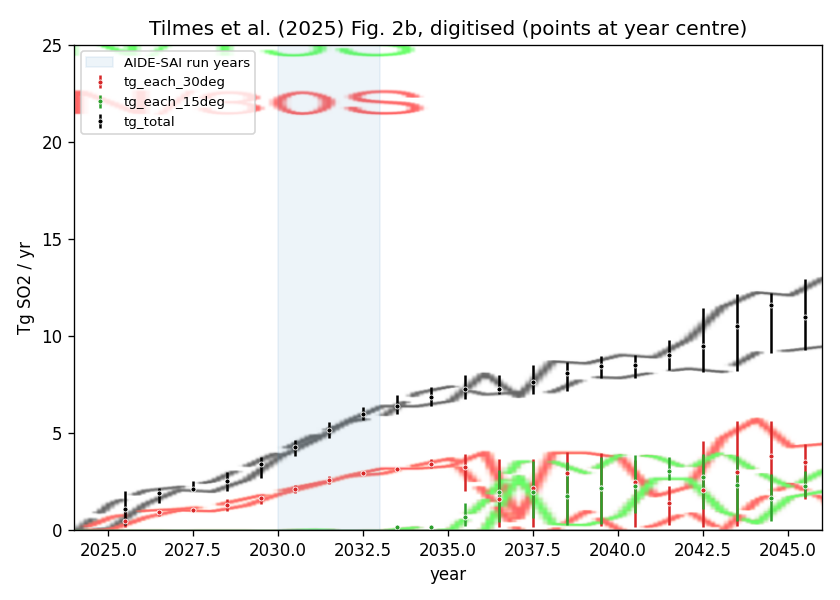
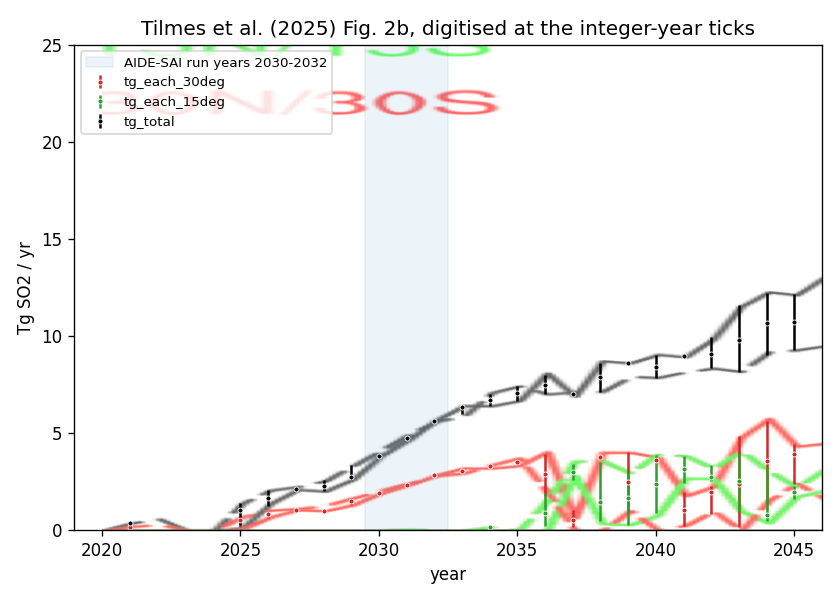
AIDE-SAI: read Fig. 2b at the integer-year vertex, not the mean over [Y, Y+1)
The curves are polylines with one vertex per year at the tick; the year mean
was about the mean of years Y and Y+1 (0.3-0.5 Tg/yr high in 2030-2032).
2030-2034 totals now 3.81, 4.72, 5.60, 6.34, 6.70. lo/hi are the member
spread at the tick. Years from 2020 (injection starts ~2020.5). Dead branch
removed.

diff --git a/AIDE-SAI/scripts/digitize_tilmes2025_fig2b.py b/AIDE-SAI/scripts/digitize_tilmes2025_fig2b.py
@@ -5,14 +5,19 @@ Output: AIDE-SAI/validation_results/injection_rates/tilmes2025_fig2b.{csv,png}.
 
 Curves (caption: "15N and 15S (green), 30N and 30S (red), total (black); different lines
 indicate two ensemble members"). Red and green are the rate AT EACH of the two sites of a
-pair, not the pair sum: while green is zero (2030-2032) red is half of black (2.13 vs 4.27/2).
+pair, not the pair sum: while green is zero (2030-2032) red is half of black.
 
-Method: pixel colour masks per curve;
-in each pixel column the curve pixels split into clusters (one per ensemble member);
-the column value is the mean of the cluster centres. A year's value is the mean over the
-pixel columns inside that calendar year; lo/hi are the lowest and highest cluster centre
-in that year (member envelope plus within-year change). Axis calibration was read off
-the tick marks by hand (constants below); read error about 0.3 Tg/yr.
+The curves are polylines with one vertex per year at the integer-year tick (kinks and
+member divergences fall on integer years), so year Y's rate is read AT x = Y, not averaged
+over [Y, Y+1) (that average is about the mean of the Y and Y+1 rates; 2026-11-25 review).
+
+Method: pixel colour masks per curve; in each pixel column the curve pixels split into
+clusters (one per resolved ensemble member; members that overlap give one cluster); the
+column value is the mean of the cluster centres. Year Y's value is that column value
+interpolated linearly to x(Y) between the two bracketing columns; lo/hi are the lowest and
+highest cluster centre in those two columns (member spread where members are resolved).
+Axis calibration was read off the tick marks by hand (constants below); read error about
+0.3 Tg/yr.
 """
 from pathlib import Path
 
@@ -31,7 +36,7 @@ Y_ZERO, Y_PER_TG = 604.6, (514.5 - 154) / 20
 ROWS = (66, 603)                    # plot area, top to the zero line
 COLS = (1222, 1830)
 LEGEND = (slice(66, 240), slice(1180, 1360))
-YEARS = range(2025, 2046)
+YEARS = range(2020, 2046)
 
 
 def x2yr(x):
@@ -51,18 +56,20 @@ def main():
     series = {}
     for k, m in masks.items():
         m[LEGEND] = False
-        per_year = {}
+        col = {}
         for x in range(*COLS):
             ys = np.where(m[ROWS[0]:ROWS[1], x])[0] + ROWS[0]
-            if k != "tg_total":
-                ys = ys[ys < ROWS[1]]
-            if len(ys) == 0:
-                continue
-            clusters = np.split(ys, np.where(np.diff(ys) > 3)[0] + 1)
-            vals = [y2tg(c.mean()) for c in clusters]
-            per_year.setdefault(int(np.floor(x2yr(x))), []).append((np.mean(vals), min(vals), max(vals)))
-        series[k] = {y: (np.mean([v[0] for v in L]), min(v[1] for v in L), max(v[2] for v in L))
-                     for y, L in per_year.items()}
+            if len(ys):
+                clusters = np.split(ys, np.where(np.diff(ys) > 3)[0] + 1)
+                col[x] = [y2tg(c.mean()) for c in clusters]
+        series[k] = {}
+        for y in YEARS:
+            xf = X0 + (y - 2020) * X_PER_YR
+            x0, x1 = int(np.floor(xf)), int(np.floor(xf)) + 1
+            if x0 in col and x1 in col:
+                w = xf - x0
+                vals = col[x0] + col[x1]
+                series[k][y] = ((1 - w) * np.mean(col[x0]) + w * np.mean(col[x1]), min(vals), max(vals))
 
     OUT.mkdir(parents=True, exist_ok=True)
     keys = list(masks)
@@ -71,9 +78,10 @@ def main():
                 "# digitised from Tilmes et al. (2025), ACP 25, 6001-6023, Fig. 2b (CC BY 4.0).\n"
                 "# Generated by AIDE-SAI/scripts/digitize_tilmes2025_fig2b.py; do not edit.\n"
                 "# tg_each_30deg / tg_each_15deg: rate at EACH of 30N and 30S / 15N and 15S (red / green);\n"
-                "# tg_total: all four sites (black). <k>: mean over the year of the member-mean curve;\n"
-                "# <k>_lo/_hi: lowest/highest member value in the year.\n"
-                "# Empty: no curve pixels in that year (rate 0 sits on the axis line).\n")
+                "# tg_total: all four sites (black). <k>: member-mean curve read at the integer-year tick\n"
+                "# (one vertex per year); <k>_lo/_hi: lowest/highest member at the tick (equal to <k>\n"
+                "# within 0.1 where the two members overlap and are not resolved).\n"
+                "# Empty: no curve pixels at the tick (rate 0 sits on the axis line).\n")
         f.write("year," + ",".join(f"{k},{k}_lo,{k}_hi" for k in keys) + "\n")
         for y in YEARS:
             cells = [",".join(f"{v:.2f}" for v in series[k][y]) if y in series[k] else ",," for k in keys]
@@ -86,13 +94,13 @@ def main():
               extent=(x_lo, x_hi, y2tg(ROWS[1] + 5), y2tg(ROWS[0])), aspect="auto", alpha=0.6)
     for k, c in zip(keys, ("tab:red", "tab:green", "k")):
         yrs = [y for y in YEARS if y in series[k]]
-        ax.errorbar([y + 0.5 for y in yrs], [series[k][y][0] for y in yrs],
+        ax.errorbar(yrs, [series[k][y][0] for y in yrs],
                     yerr=[[series[k][y][0] - series[k][y][1] for y in yrs],
                           [series[k][y][2] - series[k][y][0] for y in yrs]],
                     fmt="o", ms=3, color=c, mec="w", mew=0.5, label=k)
-    ax.axvspan(2030, 2033, color="tab:blue", alpha=0.08, label="AIDE-SAI run years")
-    ax.set(xlim=(2024, 2046), ylim=(0, 25), xlabel="year", ylabel="Tg SO2 / yr",
-           title="Tilmes et al. (2025) Fig. 2b, digitised (points at year centre)")
+    ax.axvspan(2029.5, 2032.5, color="tab:blue", alpha=0.08, label="AIDE-SAI run years 2030-2032")
+    ax.set(xlim=(2019, 2046), ylim=(0, 25), xlabel="year", ylabel="Tg SO2 / yr",
+           title="Tilmes et al. (2025) Fig. 2b, digitised at the integer-year ticks")
     ax.legend(fontsize=8, loc="upper left")
     fig.tight_layout()
     fig.savefig(OUT / "tilmes2025_fig2b.png", dpi=120, metadata={"Software": None})
